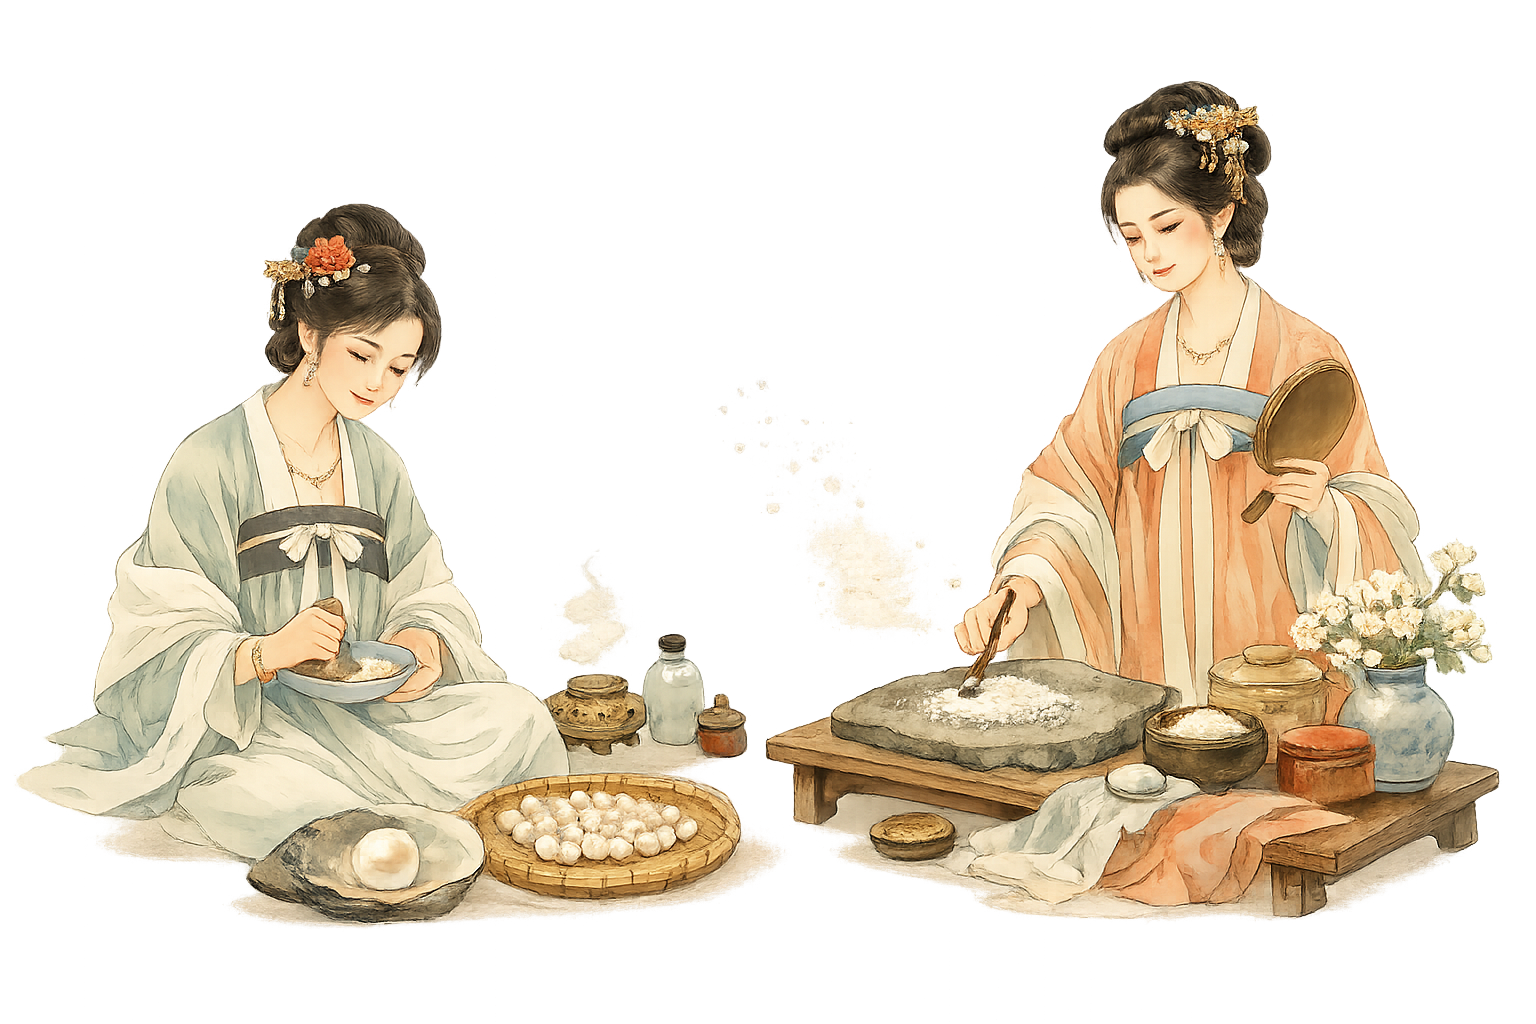
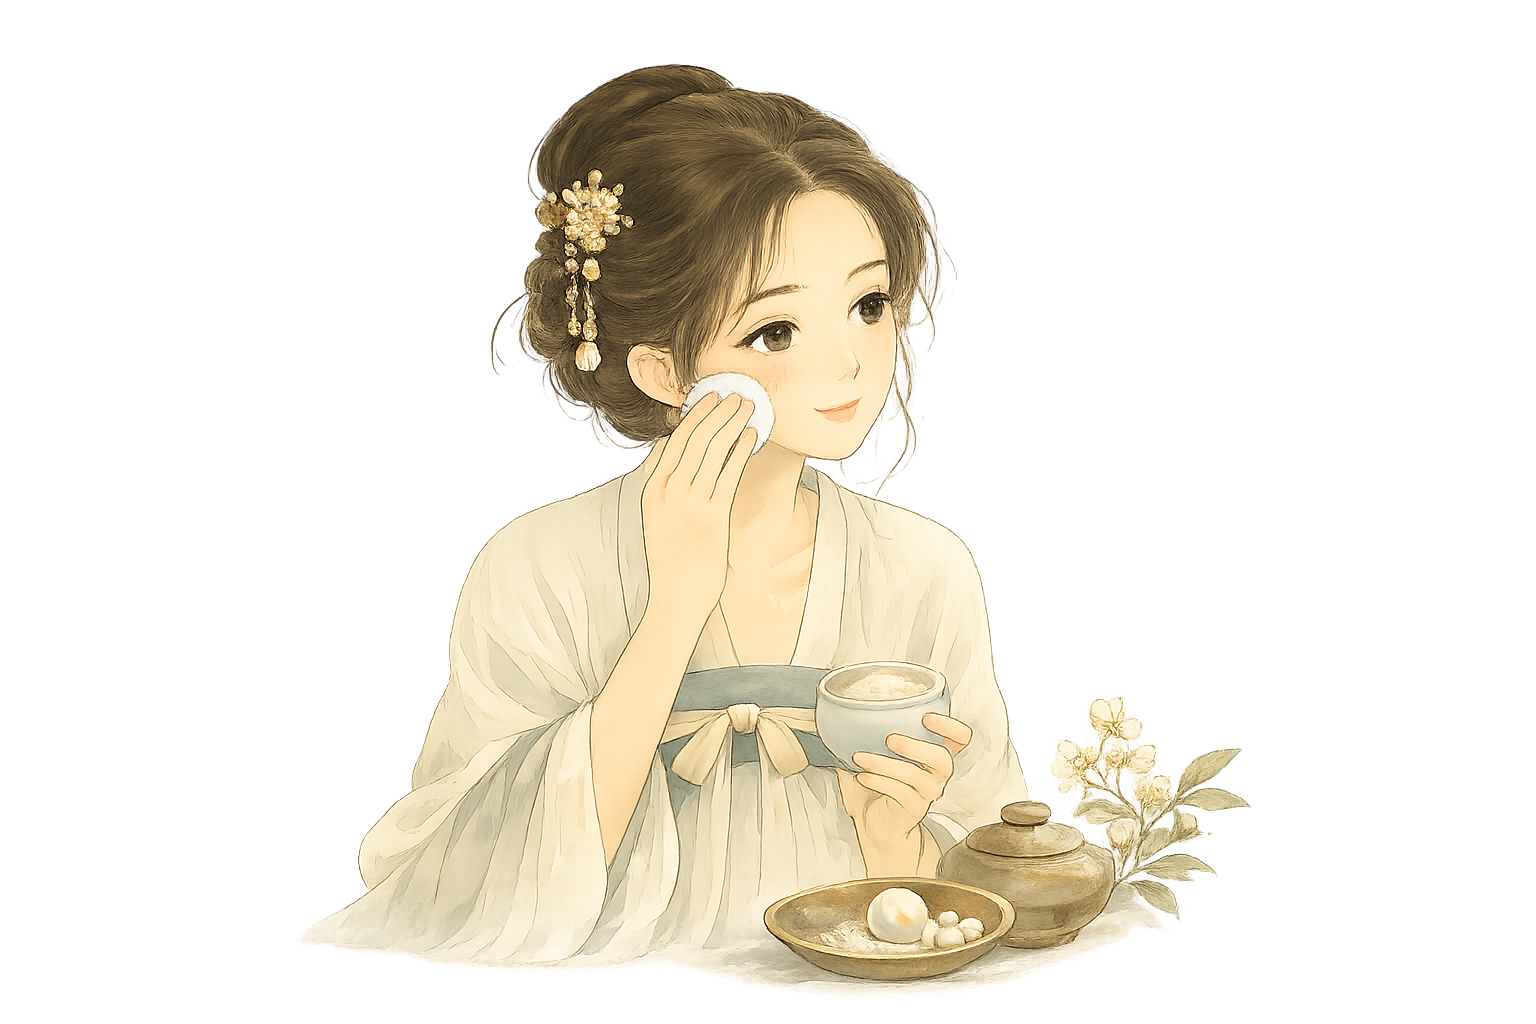
update

diff --git a/components/Footer.tsx b/components/Footer.tsx
@@ -1,0 +1,39 @@
+import Image from "next/image";
+
+export default function Footer() {
+  return (
+    <footer className="bg-[#F8F8F6]">
+      {/* Illustration */}
+      <div className="flex justify-center pt-8">
+        <Image
+          src="/images/pearl-art.png"
+          alt="Ancient artisans crafting pearl powder"
+          width={1500}
+          height={900}
+          draggable={false}
+          className="w-full max-w-5xl h-auto select-none pointer-events-none"
+          priority
+        />
+      </div>
+
+      {/* Quote */}
+      <div className="max-w-4xl mx-auto px-6 py-12 text-center">
+        <h2 className="font-serif italic text-3xl md:text-4xl text-[#1A1A1A] leading-tight">
+          Ancient heritage.
+          <br />
+          Modern purity.
+        </h2>
+
+        <p className="mt-4 text-xs md:text-sm uppercase tracking-[0.45em] text-[#666666]">
+          Timeless Pearl Powder
+        </p>
+
+        <div className="w-20 h-px bg-[#D8B67D] mx-auto my-10" />
+
+        <p className="text-sm text-[#8A8A8A]">
+          © {new Date().getFullYear()} Kandid Luxury. All rights reserved.
+        </p>
+      </div>
+    </footer>
+  );
+}

diff --git a/app/page.tsx b/app/page.tsx
@@ -4,7 +4,8 @@ import About from "@/components/About";
 
 import HowToApply from "@/components/HowToApply";
 import Benefits from "@/components/Benefits";
-import PearlArt from "@/components/PearlArt";
+
+import Footer from "@/components/Footer";
 
 
 export default function Home() {
@@ -16,8 +17,8 @@ export default function Home() {
       <HowToApply />
       <Benefits />
       <About />
-      <PearlArt />s
-
+      
+      <Footer/>
       
 
     </main>